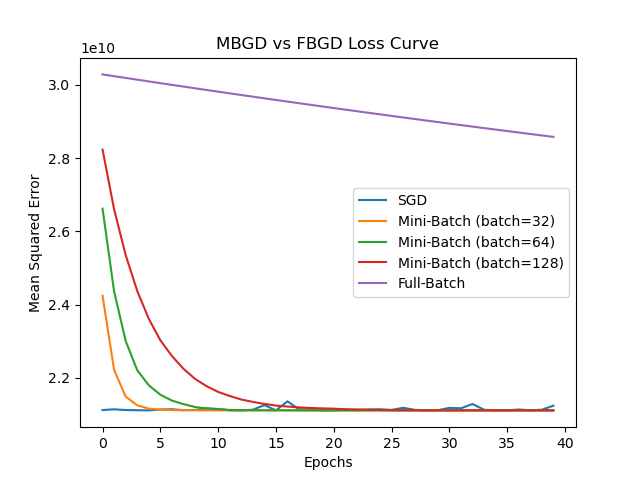
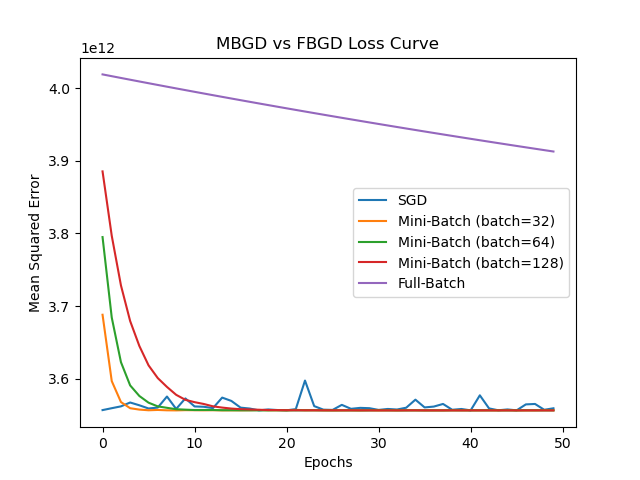
removed data cleaning

diff --git a/hyperparameter_tuning.py b/hyperparameter_tuning.py
@@ -10,7 +10,7 @@ class Hyperparameter_tuning:
         param = {
             'learning_rate': [0.00005, 0.00002, 0.00001],
             'regularization_parameter': [0.00005, 0.00002, 0.00001],
-            'epoch': [20, 30, 40]
+            'epoch': [20, 30, 50]
         }
 
         best_mse = float('inf')
@@ -31,6 +31,6 @@ class Hyperparameter_tuning:
                 best_learning_rate = learning_rate
                 best_regularization_parameter = regularization_parameter
                 best_epoch = epoch
-                
+
         # return best hyperparameters
         return best_learning_rate, best_regularization_parameter, best_epoch

diff --git a/model_analysis.py b/model_analysis.py
@@ -17,14 +17,11 @@ data = pd.read_csv("data.csv")
 # set seed
 np.random.seed(60)
 
-# remove data with outliers 
-cleaned_data = data_cleaning.remove_outliers(data, ["Income", "Work_Experience"])
-
 # feature selection
 selected_features = ["Education_Level", "Occupation", "Location", "Work_Experience", "Employment_Status", "Gender"]
 
-X = cleaned_data[selected_features]
-y = cleaned_data["Income"].values
+X = data[selected_features]
+y = data["Income"].values
 
 X = pd.get_dummies(X, drop_first=True)
 
